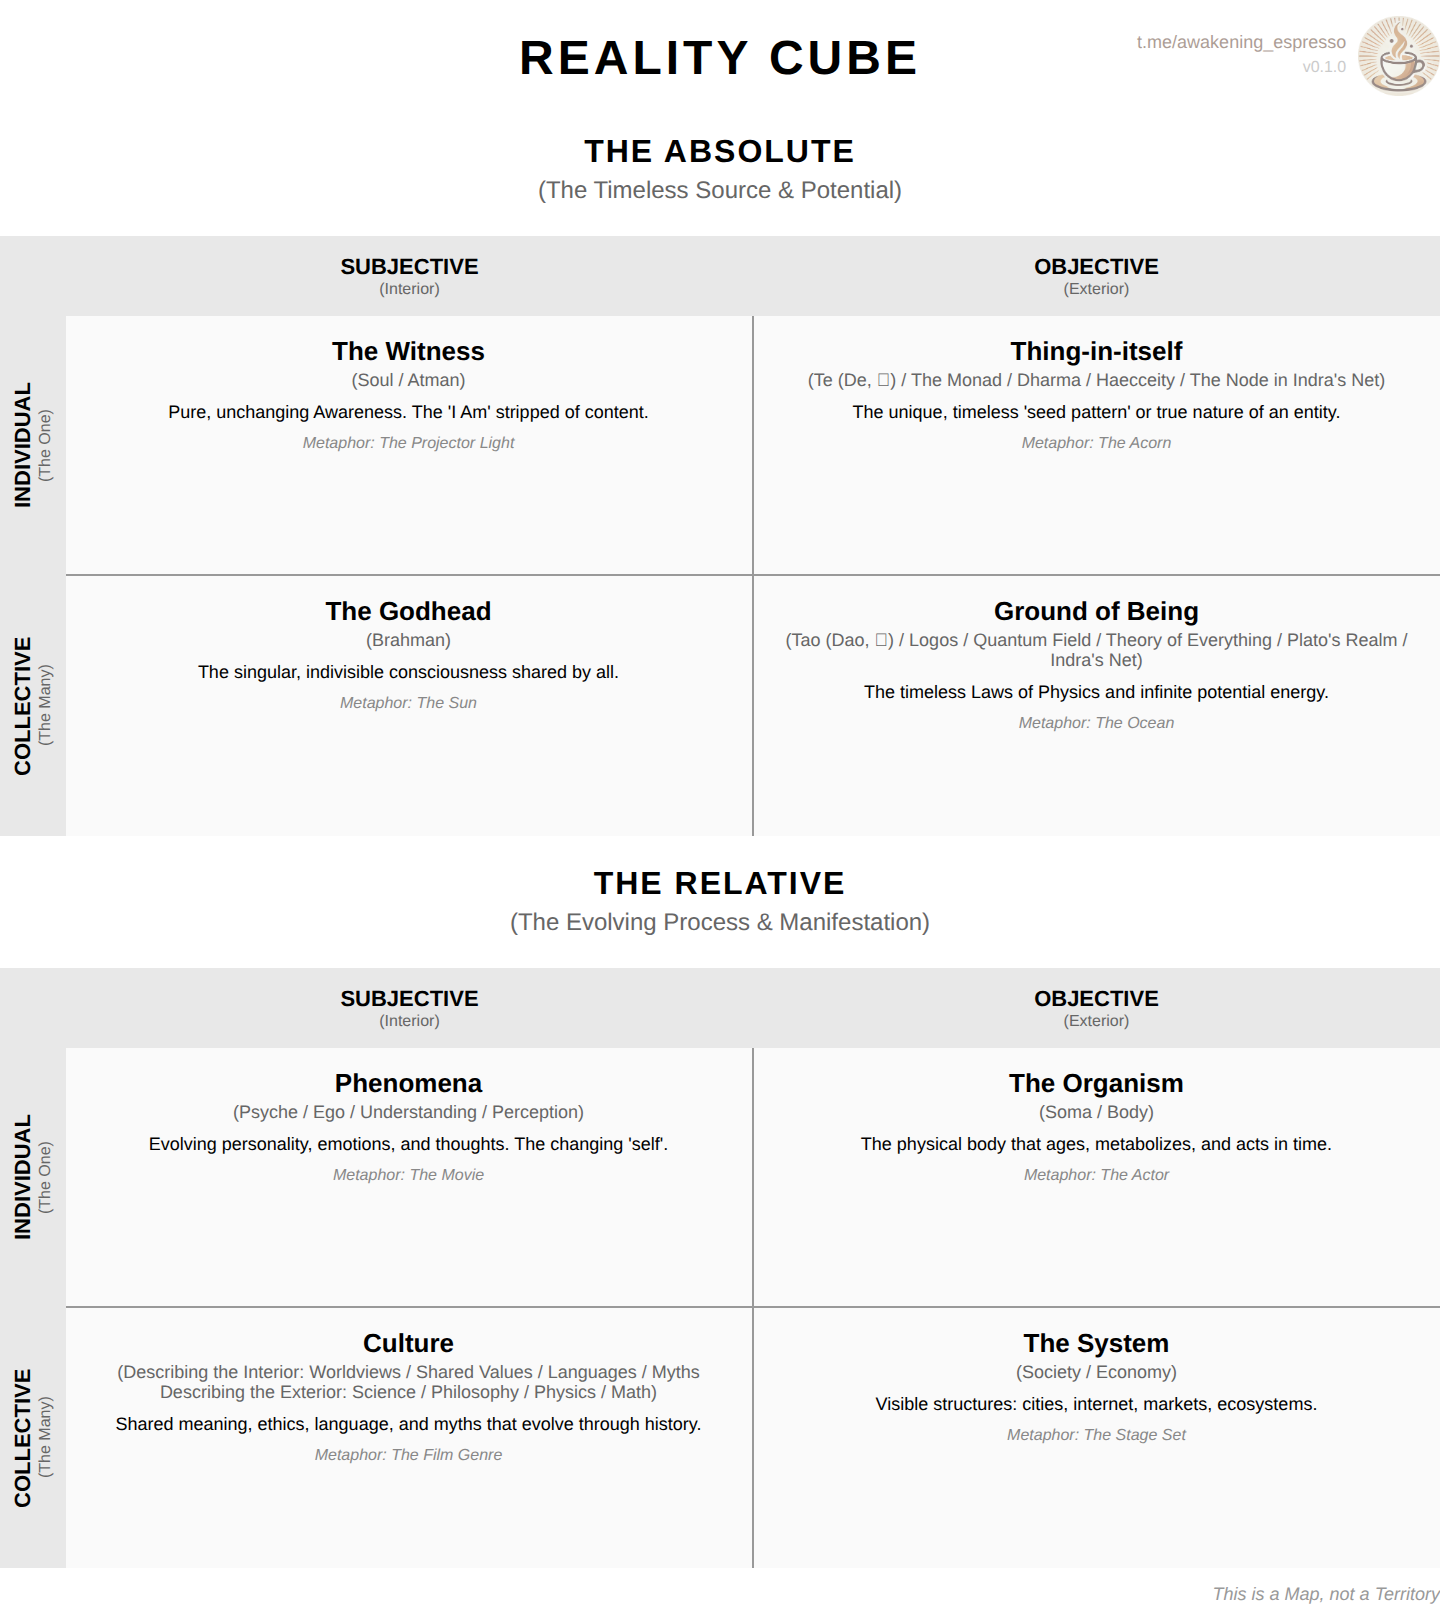
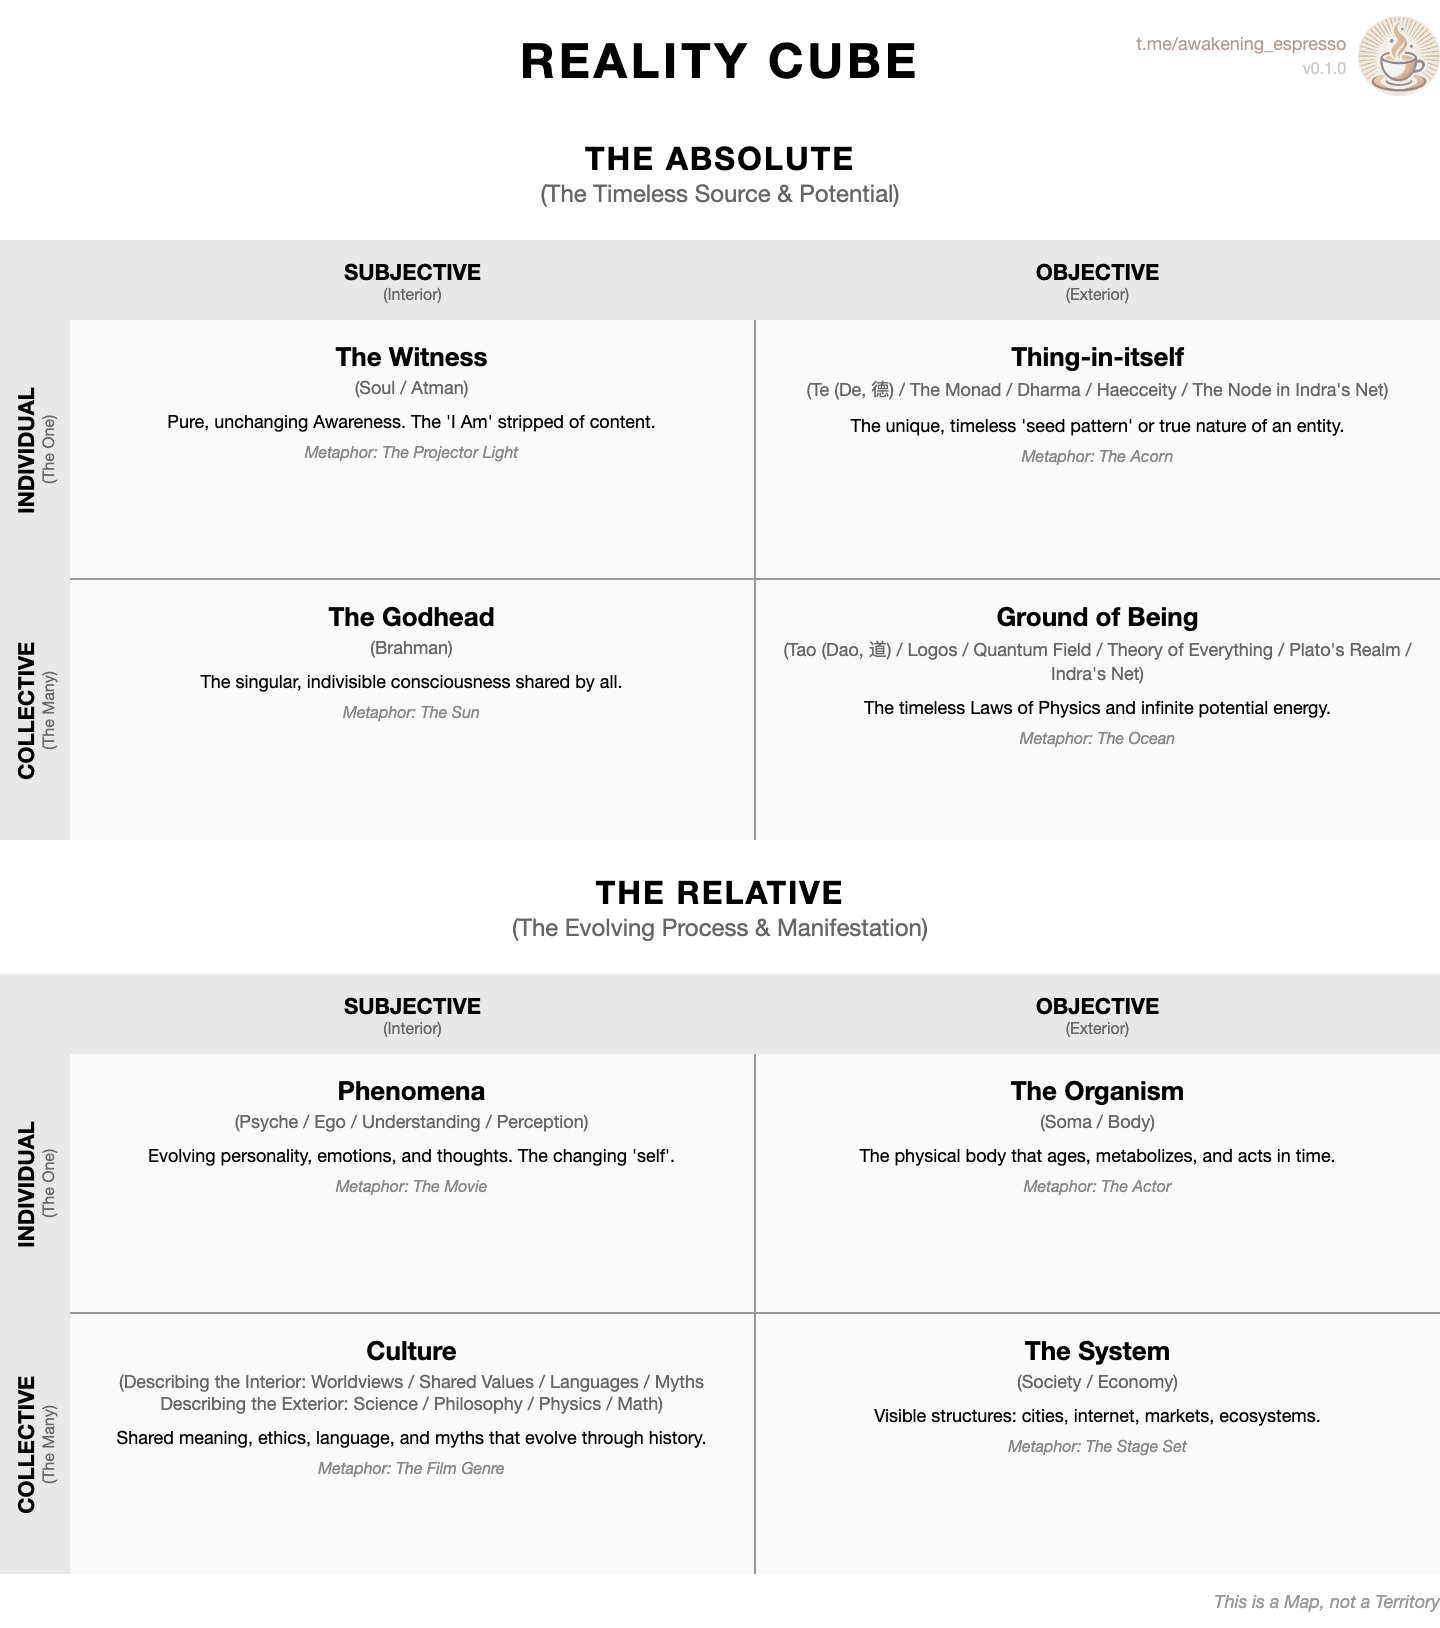
Fix Chinese

diff --git a/index.html b/index.html
@@ -2,10 +2,13 @@
 <html>
 <head>
     <meta charset="UTF-8">
+    <link rel="preconnect" href="https://fonts.googleapis.com">
+    <link rel="preconnect" href="https://fonts.gstatic.com" crossorigin>
+    <link href="https://fonts.googleapis.com/css2?family=Noto+Sans+SC:wght@400;700&display=swap" rel="stylesheet">
     <style>
         * { margin: 0; padding: 0; box-sizing: border-box; }
         body {
-            font-family: 'Helvetica Neue', Helvetica, Arial, sans-serif;
+            font-family: 'Helvetica Neue', Helvetica, Arial, 'Noto Sans SC', sans-serif;
             background: white;
             width: 720px;
         }

diff --git a/template.html b/template.html
@@ -2,10 +2,13 @@
 <html>
 <head>
     <meta charset="UTF-8">
+    <link rel="preconnect" href="https://fonts.googleapis.com">
+    <link rel="preconnect" href="https://fonts.gstatic.com" crossorigin>
+    <link href="https://fonts.googleapis.com/css2?family=Noto+Sans+SC:wght@400;700&display=swap" rel="stylesheet">
     <style>
         * { margin: 0; padding: 0; box-sizing: border-box; }
         body {
-            font-family: 'Helvetica Neue', Helvetica, Arial, sans-serif;
+            font-family: 'Helvetica Neue', Helvetica, Arial, 'Noto Sans SC', sans-serif;
             background: white;
             width: 720px;
         }
